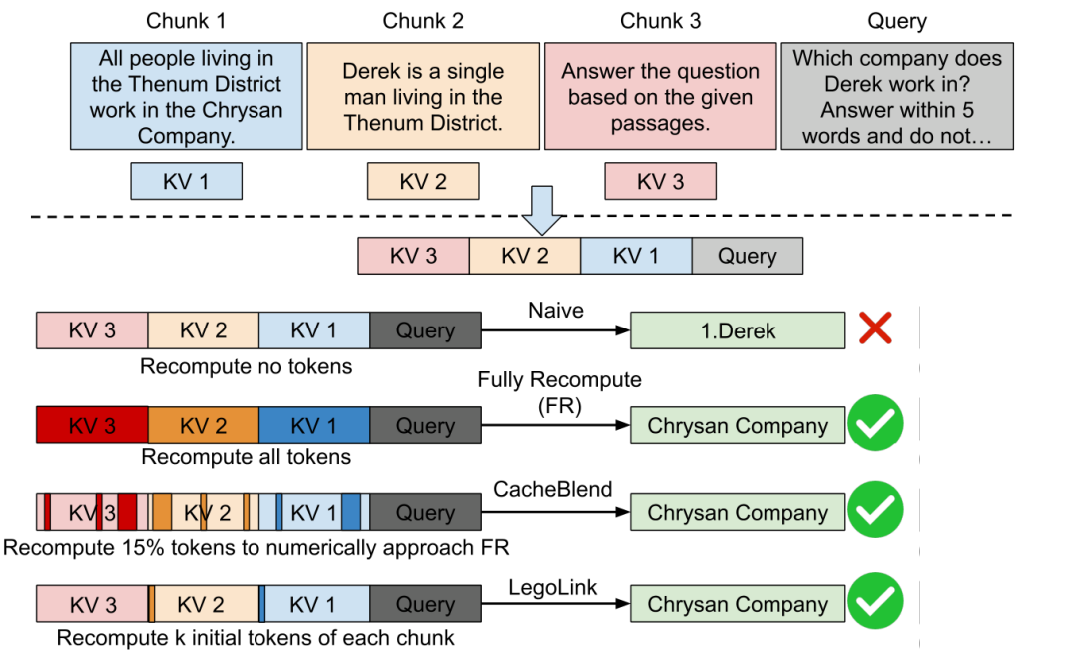
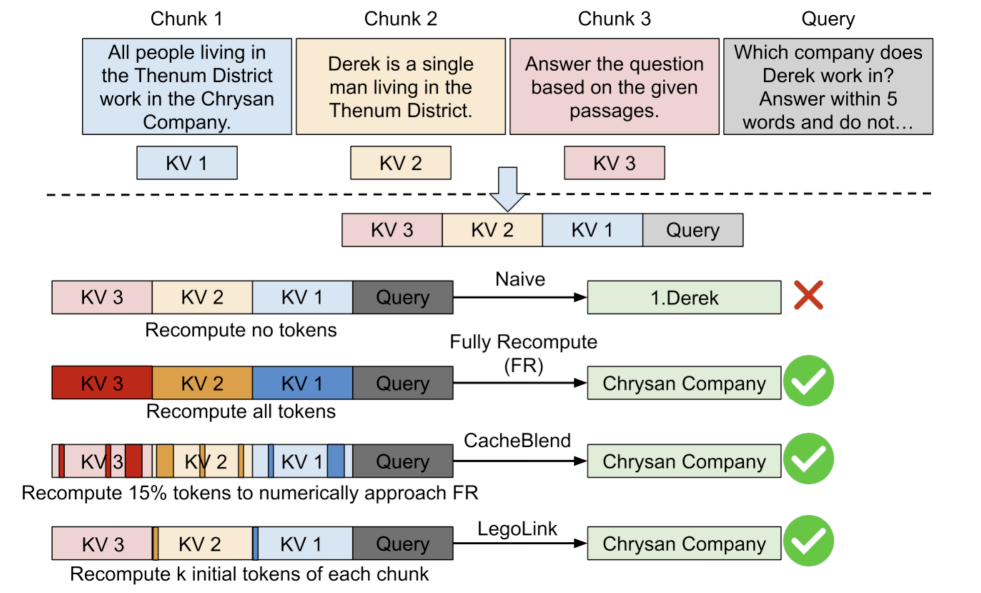
Several fixes to pubs

Changed region(s): [[0.0, 0.4553, 0.8563, 1.0], [0.0306, 0.0, 0.9786, 0.425]]

diff --git a/_pages/about.md b/_pages/about.md
@@ -3,7 +3,7 @@ layout: about
 title: about
 permalink: /
 subtitle: >
-  Undergraduate @ <a href='https://www.nju.edu.cn/en'>Nanjing University</a>. 
+  Undergraduate @ <a href='https://www.nju.edu.cn/en'>NJU</a>. 
   Research Intern @ <a href='https://illinois.edu/'>UIUC</a>.
 
 profile:
